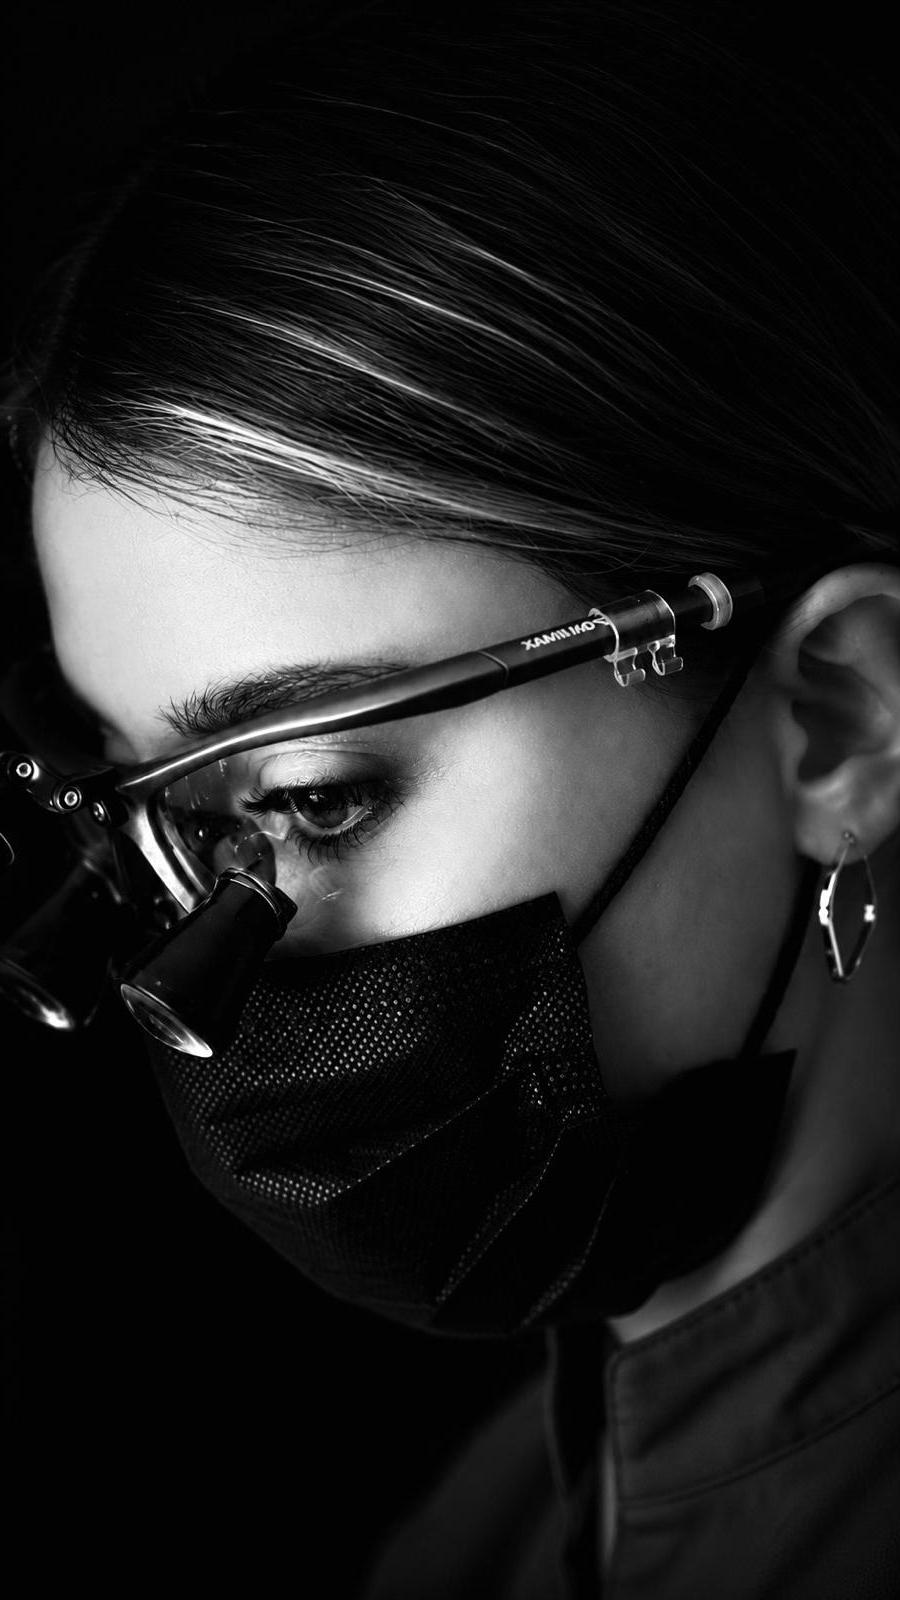
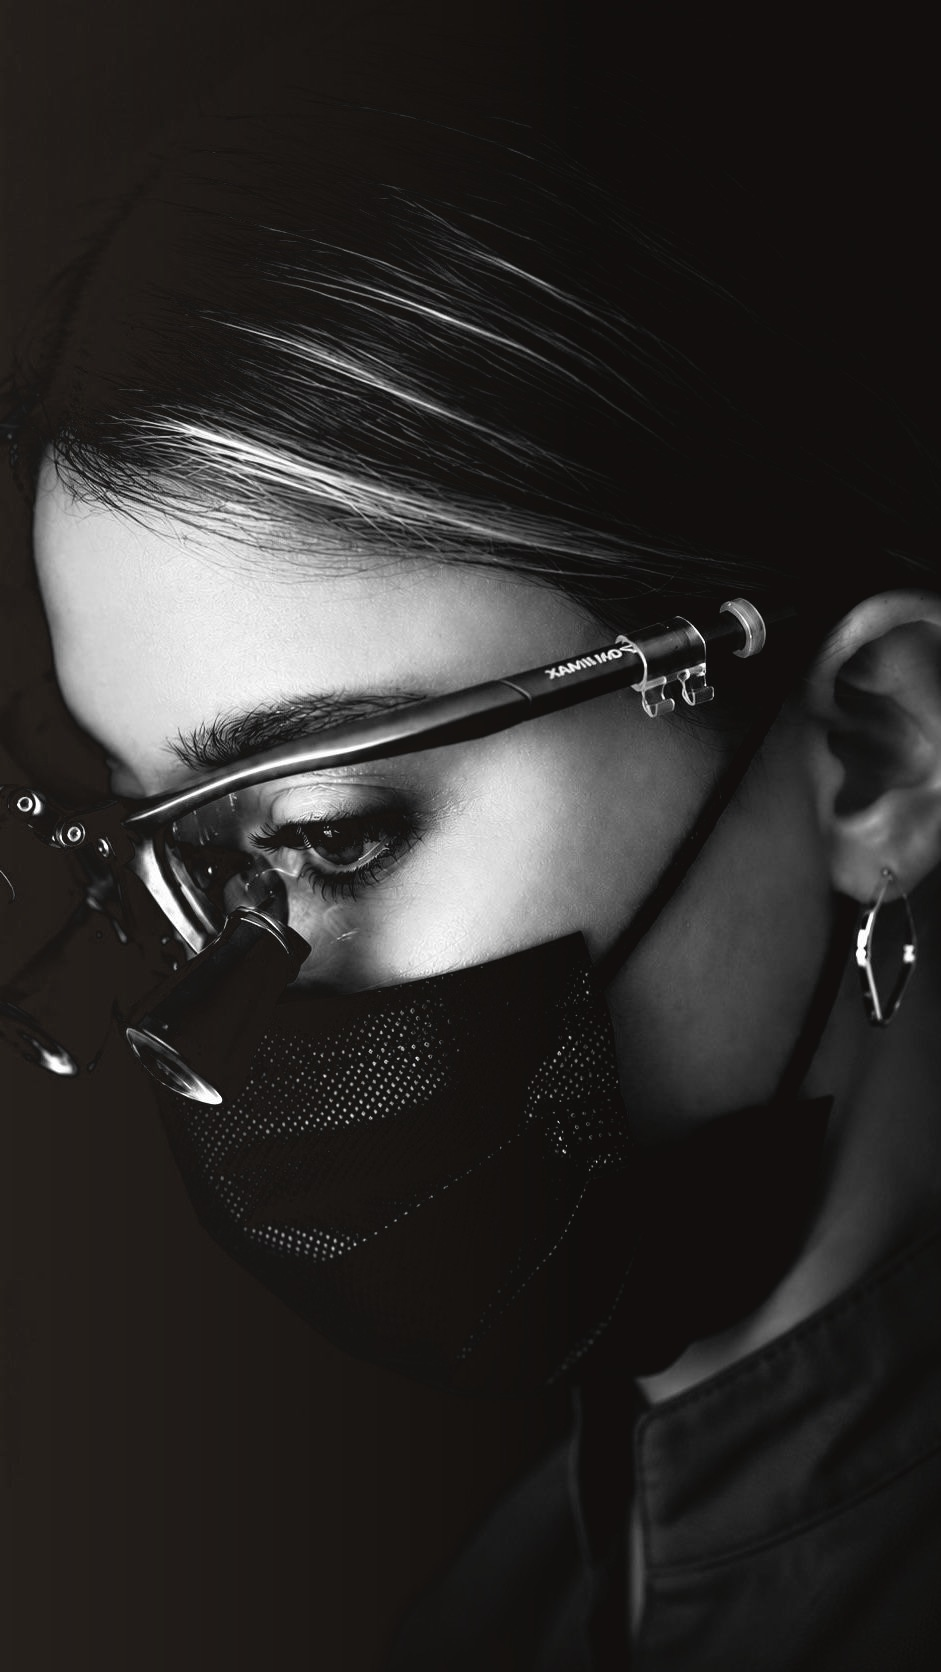
Blend the new hero portrait from black into espresso
Replace the homepage photo with the provided portrait and fade its black
surround into the brown field so the text and image read as one piece.

Changed region(s): [[0.0, 0.0, 0.4667, 1.0]]

diff --git a/src/components/public/HomeHero.tsx b/src/components/public/HomeHero.tsx
@@ -3,7 +3,7 @@ import Image from "next/image";
 import type { ClinicSettings } from "@prisma/client";
 import { publicImageExists } from "@/lib/public-image";
 
-/** Anasayfa hero: espresso zemin, solda metin, sağda yatay aynalanmış lup portresi. */
+/** Anasayfa hero: espresso zemin, solda metin, sağda portre; siyah fotoğraf alanı kahveye kayar. */
 export function HomeHero({ clinic }: { clinic: ClinicSettings }) {
   const portraitSrc = "/images/doctor/hero.jpg";
   const hasPortrait = publicImageExists(portraitSrc);
@@ -48,7 +48,15 @@ export function HomeHero({ clinic }: { clinic: ClinicSettings }) {
               />
               <div
                 aria-hidden
-                className="pointer-events-none absolute inset-y-0 left-0 hidden w-10 bg-gradient-to-r from-espresso to-transparent lg:block"
+                className="pointer-events-none absolute inset-y-0 left-0 w-[32%] bg-gradient-to-r from-espresso via-espresso/55 to-transparent lg:w-[36%]"
+              />
+              <div
+                aria-hidden
+                className="pointer-events-none absolute inset-x-0 top-0 h-16 bg-gradient-to-b from-espresso to-transparent lg:h-20"
+              />
+              <div
+                aria-hidden
+                className="pointer-events-none absolute inset-x-0 bottom-0 h-16 bg-gradient-to-t from-espresso to-transparent lg:h-20"
               />
             </>
           ) : (

diff --git a/docs/architecture.md b/docs/architecture.md
@@ -82,7 +82,7 @@ Admin olmayan istekler `/admin/login`e yönlendirilir. Session HTTP-only cookie.
 
 ## Medya ve sosyal
 
-- Klinik/hekim görselleri `public/images/clinic` ve `public/images/doctor` (anasayfa hero: yatay aynalanmış `doctor/hero.jpg`, bakış metne doğru; espresso zemin, sağda B&W lup portresi)
+- Klinik/hekim görselleri `public/images/clinic` ve `public/images/doctor` (anasayfa hero: `doctor/hero.jpg`, bakış metne; siyah zemin espresso kahveye kayar)
 - Logo işareti `public/images/brand/logo.png` — header’da mevcut isim yazısının solunda; footer’da klinik adının solunda; sekme ikonu `src/app/icon.png`
 - Hizmet stok görselleri `public/images/services/{slug}.jpg`
 - Instagram: `https://www.instagram.com/dtmervesen/` — before-after için profil embed + CTA
@@ -101,7 +101,7 @@ Palette (`src/app/globals.css` `@theme`):
 
 Tipografi: Cormorant Garamond (serif başlık) + DM Sans (gövde ve nav), `next/font` ile `layout.tsx`.
 
-Hero: espresso alan; solda fildişi/champagne metin ve burgundy “Randevu al”; sağda yatay aynalanmış B&W portre (`object-contain`, yüz kırpılmaz). Header espresso, site gövdesi fildişi, footer espresso — aynı kimlik. WhatsApp/Instagram FAB marka renklerinde kalır; ara düğmesi burgundy.
+Hero: espresso alan; solda fildişi/champagne metin ve burgundy “Randevu al”; sağda B&W portre (`object-contain`, yüz kırpılmaz). Fotoğrafın siyah çevresi sola doğru espresso kahveye kayar. Header espresso, site gövdesi fildişi, footer espresso — aynı kimlik. WhatsApp/Instagram FAB marka renklerinde kalır; ara düğmesi burgundy.
 
 Kurumsal çok şubeli poliklinik şablonu değil; tek hekim, sakin pratik. Mobil öncelikli.
 
